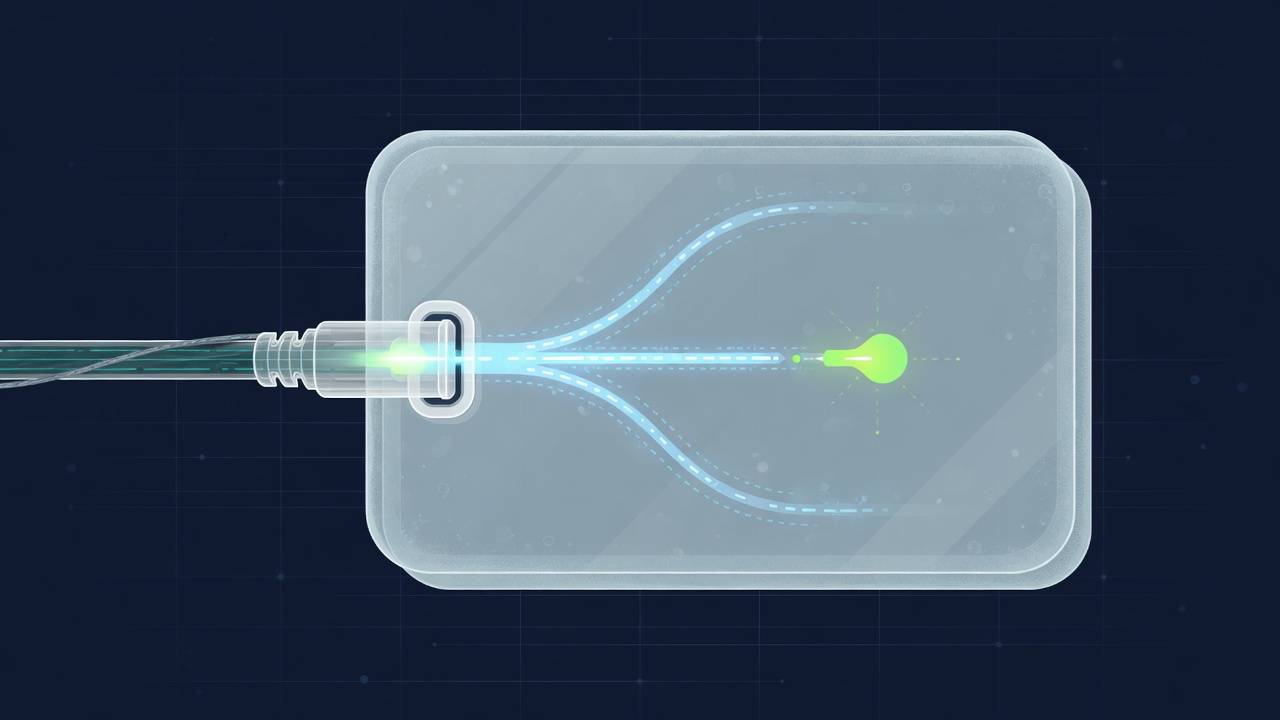
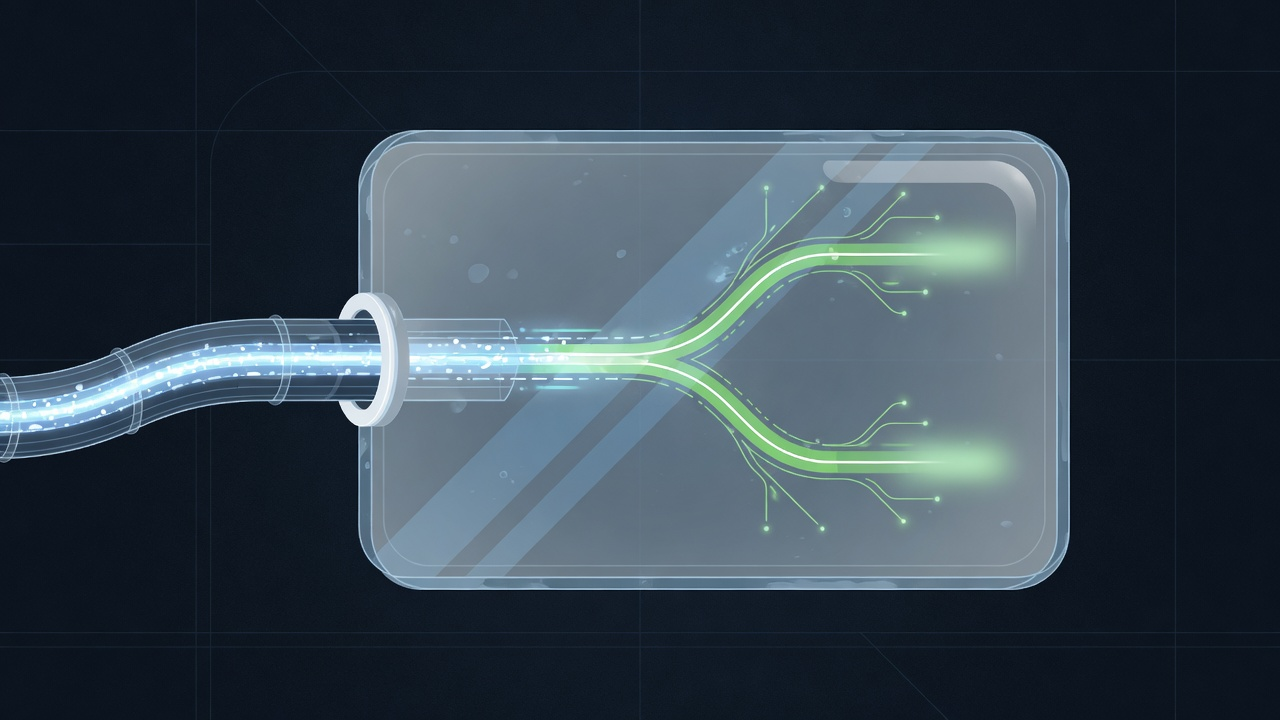
content: nanoMuse gives its personal agent hands on Android but not on the iPhone; phoneshell's iPhone hands come from a Mac, and its gate misses two steps nanoMuse's catches

diff --git a/site/blog/iphone-hands-come-from-outside/index.html b/site/blog/iphone-hands-come-from-outside/index.html
@@ -14,7 +14,7 @@
 <link rel="stylesheet" href="https://fonts.googleapis.com/css2?family=Montserrat:wght@400;500;600;700&display=swap">
 <link rel="stylesheet" href="/style.css">
 <script type="application/ld+json">
-{"@context": "https://schema.org", "@type": "BlogPosting", "headline": "nanoMuse gives its personal agent hands on Android but not on the iPhone; phoneshell's iPhone hands come from a Mac, and its gate misses two steps nanoMuse's catches", "description": "nanoMuse (arXiv:2610.08699, 6 October 2026, v0.1.40) runs one open personal agent on every device but leaves its iOS app without hands, because iOS lets no app operate another. phoneshell drives an iPhone from a Mac through an XCUITest runner and scores 322 of 349 device-graded runs. nanoMuse's Sentinel gates a Send tap and a typing step that submits; phoneshell's gate stops neither.", "datePublished": "2026-10-08", "dateModified": "2026-10-08", "url": "https://blolabel.ai/blog/iphone-hands-come-from-outside/", "mainEntityOfPage": {"@type": "WebPage", "@id": "https://blolabel.ai/blog/iphone-hands-come-from-outside/"}, "author": {"@type": "Organization", "name": "Blolabel", "url": "https://blolabel.ai"}, "publisher": {"@type": "Organization", "name": "Blolabel", "url": "https://blolabel.ai"}, "isPartOf": {"@type": "Blog", "@id": "https://blolabel.ai/blog/#blog"}, "image": "https://blolabel.ai/images/blog/iphone-hands-come-from-outside-hero.png", "citation": ["https://arxiv.org/abs/2610.08699", "https://github.com/nano-muse/nanoMuse", "https://github.com/Blomega/phoneshell", "https://huggingface.co/datasets/blolabel/phoneshell-bench", "https://matthewcassinelli.com/wwdc26-sessions-app-intents-siri-ai-apple-developer", "https://blolabel.ai/blog/confirm-gate-lets-send-through/", "https://blolabel.ai/blog/checks-pass-before-the-agent-picks/"]}
+{"@context": "https://schema.org", "@type": "BlogPosting", "headline": "nanoMuse gives its personal agent hands on Android but not on the iPhone; phoneshell's iPhone hands come from a Mac, and its gate misses two steps nanoMuse's catches", "description": "nanoMuse (arXiv:2610.08699, 6 October 2026, v0.1.40) runs one open personal agent on every device but leaves its iOS app without hands, because iOS lets no app operate another. phoneshell drives an iPhone from a Mac through an XCUITest runner and scores 322 of 349 device-graded runs. nanoMuse's Sentinel gates a Send tap and a typing step that submits; phoneshell's gate stops neither.", "datePublished": "2026-10-07", "dateModified": "2026-10-07", "url": "https://blolabel.ai/blog/iphone-hands-come-from-outside/", "mainEntityOfPage": {"@type": "WebPage", "@id": "https://blolabel.ai/blog/iphone-hands-come-from-outside/"}, "author": {"@type": "Organization", "name": "Blolabel", "url": "https://blolabel.ai"}, "publisher": {"@type": "Organization", "name": "Blolabel", "url": "https://blolabel.ai"}, "isPartOf": {"@type": "Blog", "@id": "https://blolabel.ai/blog/#blog"}, "image": "https://blolabel.ai/images/blog/iphone-hands-come-from-outside-hero.png", "citation": ["https://arxiv.org/abs/2610.08699", "https://github.com/nano-muse/nanoMuse", "https://github.com/Blomega/phoneshell", "https://huggingface.co/datasets/blolabel/phoneshell-bench", "https://matthewcassinelli.com/wwdc26-sessions-app-intents-siri-ai-apple-developer", "https://blolabel.ai/blog/confirm-gate-lets-send-through/", "https://blolabel.ai/blog/checks-pass-before-the-agent-picks/"]}
 </script>
 <script type="application/ld+json">
 {
@@ -74,7 +74,7 @@
   <a class="backlink" href="/blog/">&larr; Notes</a>
   <div class="kicker">
     <span class="kind comparison">comparison</span>
-    <time datetime="2026-10-08">08 October 2026</time>
+    <time datetime="2026-10-07">07 October 2026</time>
     <span>8 min read</span>
   </div>
   <h1>nanoMuse gives its personal agent hands on Android but not on the iPhone; phoneshell&#x27;s iPhone hands come from a Mac, and its gate misses two steps nanoMuse&#x27;s catches</h1>
